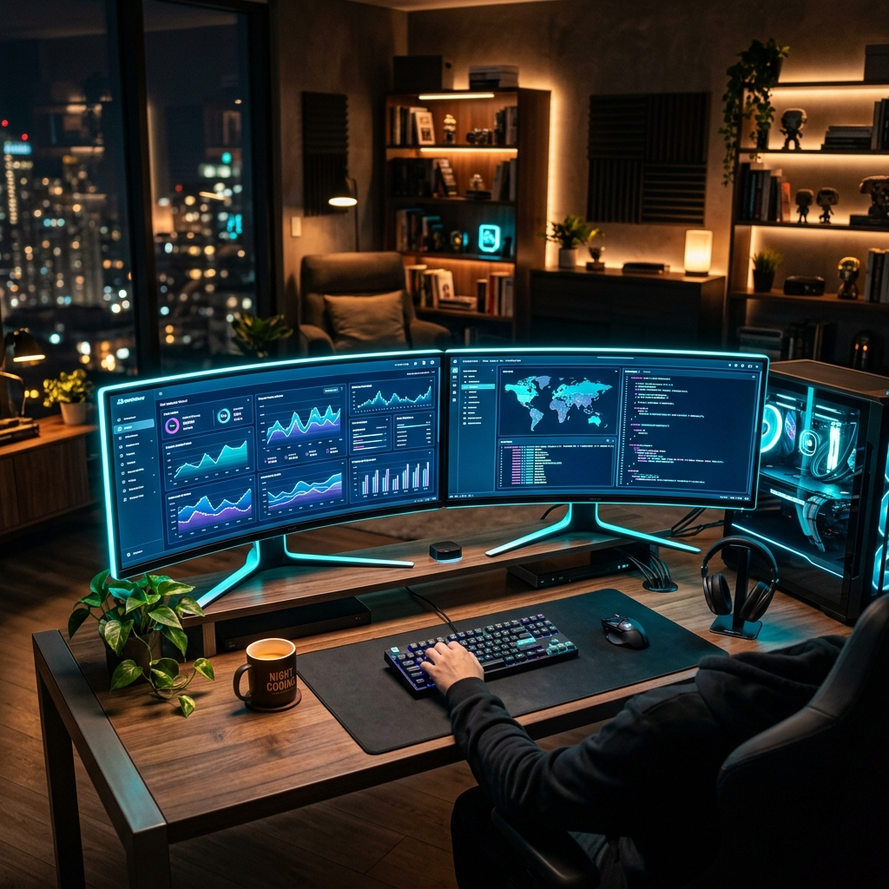
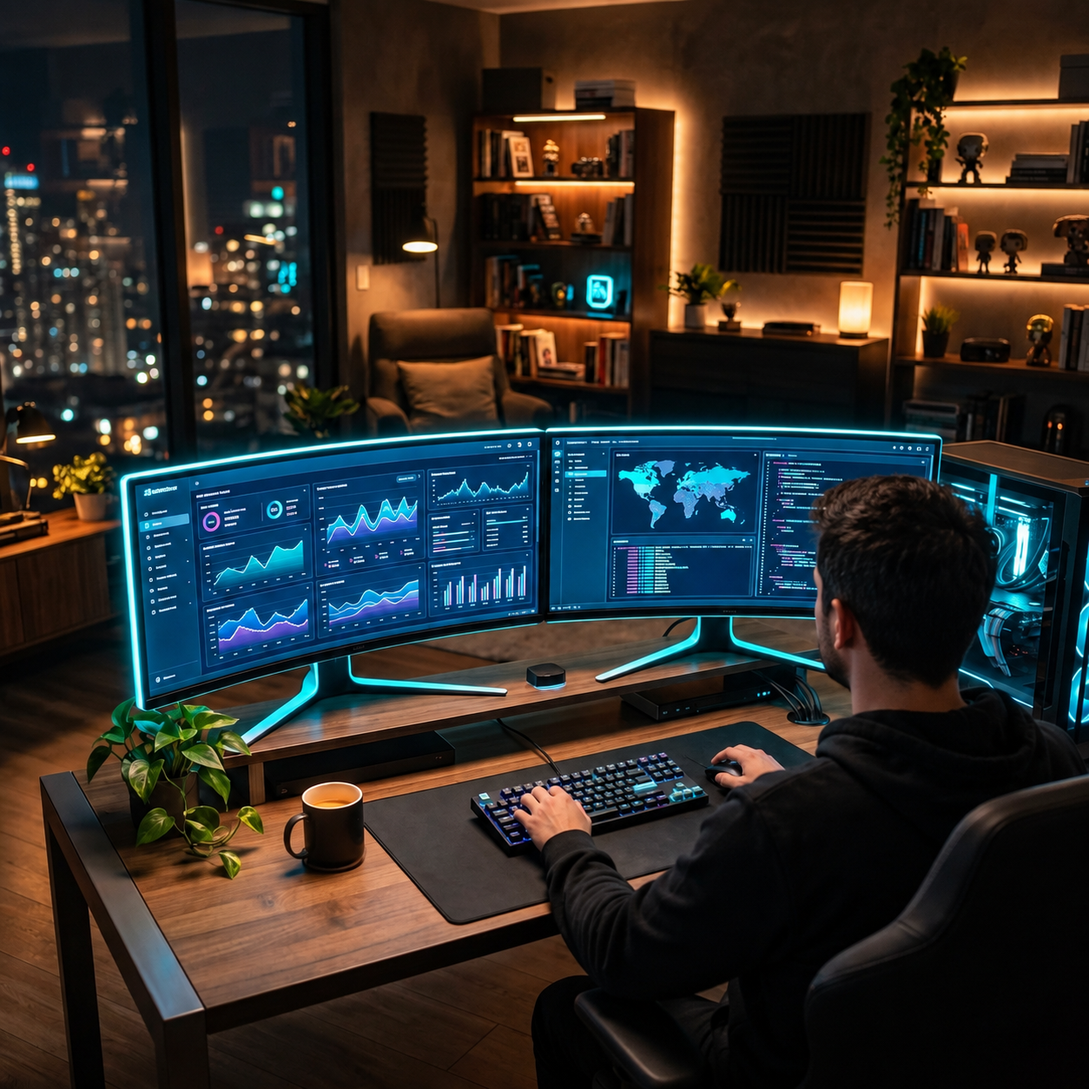
preview: Telegram installation and corrected career artwork

diff --git a/welcome/index.html b/welcome/index.html
@@ -57,7 +57,7 @@
       <div class="ritual-copy"><p class="eyebrow">02 / ВЕРНИТЕСЬ К СЕБЕ</p><h2>Вдох.<br>Выдох.<br><em>Вспомните свою мечту.</em></h2><p>В режиме манифестации образы вашей доски сменяют друг друга, а мягкое движение символа помогает следовать ритму дыхания.</p><p>Гармоничный звук можно включить по желанию. Несколько спокойных минут — только для вас.</p><a class="button light" href="../index.html">Открыть приложение <span aria-hidden="true">↗</span></a></div>
     </div></section>
     <section class="section wrap steps"><p class="eyebrow">03 / НАЧНИТЕ С МАЛЕНЬКОГО</p><h2>Не нужно знать весь путь.<br>Достаточно <em>первого образа.</em></h2><div class="steps-grid"><article><span>01</span><h3>Назовите мечту</h3><p>Что вам хочется привнести в свою жизнь? Начните с одной цели.</p></article><article><span>02</span><h3>Добавьте фотографию</h3><p>Пусть она вызывает то самое чувство: «Да, я хочу именно так».</p></article><article><span>03</span><h3>Возвращайтесь к ней</h3><p>На доске, в дыхательной практике или на плакате рядом с вами.</p></article></div></section>
-    <section id="install" class="install wrap"><div class="install-copy"><p class="eyebrow">ВАША МЕЧТА УЖЕ МОЖЕТ БЫТЬ ЗДЕСЬ</p><h2>Оставьте место<br><em>для своего «хочу».</em></h2><p>Без подписки и рекламы.<br>Только для вдохновения своей мечтой.</p><a class="button primary" href="../index.html">Открыть бесплатно <span aria-hidden="true">↗</span></a><span class="install-note">Работает в браузере. Можно установить на устройство.</span></div><div class="install-guide"><h3>Всегда под рукой</h3><p>Откройте приложение кнопкой «Открыть бесплатно», затем добавьте его на устройство:</p><details open><summary>Android <span aria-hidden="true">+</span></summary><p>В Chrome откройте меню ⋮ → «Добавить на главный экран» → «Установить». Название команды может немного отличаться.</p></details><details><summary>iPhone / iPad <span aria-hidden="true">+</span></summary><p>В Safari откройте меню «Поделиться» → «На экран “Домой”». Если есть переключатель «Открывать как веб-приложение», включите его и нажмите «Добавить».</p></details><details><summary>Компьютер <span aria-hidden="true">+</span></summary><p>Откройте приложение в Chrome или Edge и нажмите значок установки в адресной строке, если он доступен. Можно пользоваться и в обычной вкладке.</p></details></div></section>
+    <section id="install" class="install wrap"><div class="install-copy"><p class="eyebrow">ВАША МЕЧТА УЖЕ МОЖЕТ БЫТЬ ЗДЕСЬ</p><h2>Оставьте место<br><em>для своего «хочу».</em></h2><p>Без подписки и рекламы.<br>Только для вдохновения своей мечтой.</p><a class="button primary" href="../index.html">Открыть бесплатно <span aria-hidden="true">↗</span></a><span class="install-note">Работает в браузере. Можно установить на устройство.</span></div><div class="install-guide"><h3>Всегда под рукой</h3><p class="telegram-install-help"><strong>Открыли ссылку в Telegram?</strong> Если ссылка открылась внутри Telegram, в меню страницы ⋮ или ⋯ выберите «Открыть в браузере»: на Android — Chrome, на iPhone — Safari. Во встроенном браузере кнопки установки может не быть. Затем нажмите «Открыть бесплатно» и следуйте инструкции ниже.</p><p>Откройте приложение кнопкой «Открыть бесплатно», затем добавьте его на устройство:</p><details open><summary>Android <span aria-hidden="true">+</span></summary><p>В Chrome откройте меню ⋮ → «Добавить на главный экран» → «Установить». Название команды может немного отличаться.</p></details><details><summary>iPhone / iPad <span aria-hidden="true">+</span></summary><p>В Safari откройте меню «Поделиться» → «На экран “Домой”». Если есть переключатель «Открывать как веб-приложение», включите его и нажмите «Добавить».</p></details><details><summary>Компьютер <span aria-hidden="true">+</span></summary><p>Откройте приложение в Chrome или Edge и нажмите значок установки в адресной строке, если он доступен. Можно пользоваться и в обычной вкладке.</p></details></div></section>
     <section class="faq wrap section"><div><p class="eyebrow">ЕЩЁ ПАРА ВОПРОСОВ</p><h2>Всё просто.<br><em>И по-честному.</em></h2></div><div><details><summary>Это действительно бесплатно?<span aria-hidden="true">+</span></summary><p>Да. Создание доски, поиск фотографий, дыхательная практика и экспорт PNG доступны без подписки и рекламы.</p></details><details><summary>Нужно создавать аккаунт?<span aria-hidden="true">+</span></summary><p>Нет. Открывайте приложение и начинайте. Доска сохраняется в браузере на вашем устройстве. Чтобы перенести её или сохранить отдельную копию, используйте резервный экспорт в приложении.</p></details><details><summary>Можно пользоваться без интернета?<span aria-hidden="true">+</span></summary><p>После первой загрузки основные функции доступны офлайн. Для поиска и загрузки новых сетевых фотографий нужен интернет.</p></details><details><summary>Можно напечатать свою доску?<span aria-hidden="true">+</span></summary><p>Да, экспортируйте PNG в формате А2 с плотностью 150 или 300 dpi. Для 300 dpi удобнее компьютер. Качество фотографий зависит от исходных изображений.</p></details></div></section>
   </main>
   <footer class="wrap footer"><a class="brand" href="#"><span class="brand-star" aria-hidden="true">✳</span><span>Kseles<span class="brand-sub">DreamBoards</span></span></a><p>Только вы. И то, о чём мечтаете.</p><a href="../index.html">К моей доске ↗</a></footer>

diff --git a/release.test.js b/release.test.js
@@ -31,8 +31,8 @@ const IMPORT_JS = fs.readFileSync(path.join(__dirname, 'import.js'), 'utf8');
 
 const PROD_SCOPE = 'https://example.com/dreamboard/';
 const PREVIEW_SCOPE = 'https://example.com/dreamboard-v14-preview/';
-const PROD_CACHE = 'dreamboard-dreamboard-v30';
-const PREVIEW_CACHE = 'dreamboard-dreamboard-v14-preview-v30';
+const PROD_CACHE = 'dreamboard-dreamboard-v31';
+const PREVIEW_CACHE = 'dreamboard-dreamboard-v14-preview-v31';
 const LEGACY_V13 = 'dreamboard-v13';
 const OLD_PROD_SCOPED = 'dreamboard-dreamboard-v13';
 const OLD_PREVIEW_SCOPED = 'dreamboard-dreamboard-v14-preview-v13';
@@ -118,15 +118,15 @@ function runActivate(sw) {
 // --- version.txt -----------------------------------------------------------
 
 test('1. version.txt: Stage 7B v15 identifier', () => {
-    assert.ok(/Build: 2026-09-13-v30-custom-domain/.test(VERSION_TXT), 'Build = v15 Stage 7B');
+    assert.ok(/Build: 2026-09-13-v31-telegram-install/.test(VERSION_TXT), 'Build = v15 Stage 7B');
     assert.ok(!/2026-06-06-v13/.test(VERSION_TXT), 'нет старого v13 build identifier');
 });
 
 test('2. version.txt: Expected cache описывает scoped runtime-name, не один глобальный', () => {
     assert.ok(/Expected cache: runtime scoped cache name/.test(VERSION_TXT), 'описан runtime scoped cache');
-    assert.ok(/dreamboard-<scope>-v30/.test(VERSION_TXT), 'формула dreamboard-<scope>-v30');
-    assert.ok(/dreamboard-dreamboard-v30/.test(VERSION_TXT), 'пример production имени');
-    assert.ok(/dreamboard-dreamboard-v14-preview-v30/.test(VERSION_TXT), 'пример preview имени');
+    assert.ok(/dreamboard-<scope>-v31/.test(VERSION_TXT), 'формула dreamboard-<scope>-v31');
+    assert.ok(/dreamboard-dreamboard-v31/.test(VERSION_TXT), 'пример production имени');
+    assert.ok(/dreamboard-dreamboard-v14-preview-v31/.test(VERSION_TXT), 'пример preview имени');
     assert.ok(!/Expected cache: dreamboard-v14\s*$/.test(VERSION_TXT), 'не обещает один глобальный cache name');
 });
 
@@ -156,7 +156,7 @@ test('5. один source-файл вычисляет разные cache names (p
     assert.notStrictEqual(prod.cacheName, prev.cacheName, 'cache names изолированы по scope');
     assert.ok(prod.cacheName.startsWith('dreamboard-') && prev.cacheName.startsWith('dreamboard-'),
         'оба в namespace DreamBoard');
-    assert.ok(prod.cacheName.endsWith('-v30') && prev.cacheName.endsWith('-v30'), 'оба версии v15');
+    assert.ok(prod.cacheName.endsWith('-v31') && prev.cacheName.endsWith('-v31'), 'оба версии v15');
 });
 
 // --- install ---------------------------------------------------------------
@@ -249,7 +249,7 @@ test('13. контракты не изменены: schemaVersion 2, backup form
 });
 
 test('14. SW: scope-изоляция реализована (SCOPE_NAME, SCOPE_OLD_RE, IS_PRODUCTION_SCOPE)', () => {
-    assert.ok(/var CACHE_NAME = 'dreamboard-' \+ SCOPE_NAME \+ '-v30';/.test(SW_JS),
+    assert.ok(/var CACHE_NAME = 'dreamboard-' \+ SCOPE_NAME \+ '-v31';/.test(SW_JS),
         'CACHE_NAME строится из scope во время исполнения');
     assert.ok(/SCOPE_OLD_RE/.test(SW_JS) && /IS_PRODUCTION_SCOPE/.test(SW_JS) && /LEGACY_CACHE_RE/.test(SW_JS),
         'механика activate-фильтра на месте');
@@ -258,10 +258,10 @@ test('14. SW: scope-изоляция реализована (SCOPE_NAME, SCOPE_O
 });
 
 test('custom domain root scope installs and retains photo cache on upgrade', async () => {
-    const sw = loadSW('https://dreamboard.kseles.ru/', ['dreamboard-root-v29', 'dreamboard-root-photos-v1']);
+    const sw = loadSW('https://dreamboard.kseles.ru/', ['dreamboard-root-v30', 'dreamboard-root-photos-v1']);
     await runInstall(sw);
     await runActivate(sw);
-    assert.ok(sw.opened.includes('dreamboard-root-v30'));
-    assert.ok(sw.deleted.includes('dreamboard-root-v29'));
+    assert.ok(sw.opened.includes('dreamboard-root-v31'));
+    assert.ok(sw.deleted.includes('dreamboard-root-v30'));
     assert.ok(!sw.deleted.includes('dreamboard-root-photos-v1'));
 });

diff --git a/welcome/banner/index.html b/welcome/banner/index.html
@@ -18,15 +18,15 @@
     .card{position:absolute;padding:1.25cqw;background:#fffdfa;box-shadow:0 1.7cqw 4cqw #26382e1c;}
     .card img{display:block;width:100%;height:82%;object-fit:cover}.card p{font-size:1.45cqw;letter-spacing:.08cqw;margin:1.5cqw .5cqw .4cqw;font-weight:600}
     .ocean{left:10%;top:47%;width:48%;height:31%;transform:rotate(-7deg);z-index:2}
-    .work{right:8%;top:52%;width:34%;height:27%;transform:rotate(8deg);z-index:3}.work p{text-align:right}
+    .work{right:8%;top:52%;width:34%;height:27%;transform:rotate(8deg);z-index:3}.work p{text-align:right}.work img{object-position:right center}
     .note{position:absolute;left:46%;top:70.5%;z-index:4;padding:2.3cqw 3.4cqw;background:#e2e8d9;transform:rotate(-3deg);box-shadow:0 1cqw 3cqw #26382e13;font-family:Georgia,serif;font-style:italic;font-size:2.8cqw;line-height:1.12}
     .spark{position:absolute;right:7%;top:42%;color:#a6482e;font-size:9cqw;font-weight:400;transform:rotate(12deg)}
-    .cta{position:absolute;left:7.4%;right:7.4%;bottom:7%;height:7.5%;background:#26382e;color:#fffdf8;border-radius:.8cqw;display:flex;align-items:center;justify-content:space-between;padding:0 3.5cqw;font-size:3cqw;font-weight:600}
-    .cta span{font-size:4.5cqw;font-weight:400}.promise{position:absolute;bottom:2.5%;left:0;right:0;text-align:center;font-size:1.95cqw;color:#606b61;letter-spacing:.025cqw}
+    .cta{position:absolute;left:7.4%;right:7.4%;bottom:10%;height:7.5%;background:#26382e;color:#fffdf8;border-radius:.8cqw;display:flex;align-items:center;justify-content:space-between;padding:0 3.5cqw;font-size:3cqw;font-weight:600}
+    .cta span{font-size:4.5cqw;font-weight:400}.address{position:absolute;bottom:5.4%;left:0;right:0;text-align:center;font-size:3.1cqw;font-weight:600;letter-spacing:.04cqw}.promise{position:absolute;bottom:2.2%;left:0;right:0;text-align:center;font-size:1.95cqw;color:#606b61;letter-spacing:.025cqw}
   </style>
 </head>
 <body>
-  <a class="banner" href="../?utm_source=personal" aria-label="Kseles-DreamBoards. Создать доску мечты — перейти на страницу приложения">
+  <a class="banner" href="https://dreamboard.kseles.ru/welcome/?utm_source=personal" aria-label="Kseles-DreamBoards. Создать доску мечты — перейти на страницу приложения">
     <div class="brand"><span class="star" aria-hidden="true">✳</span><div>Kseles<small>DREAMBOARDS</small></div></div>
     <div class="eyebrow">ВАША ДОСКА МЕЧТЫ</div>
     <h1>Дайте мечте<br><em>своё место.</em></h1>
@@ -37,6 +37,7 @@
     <div class="note">Мечтать.<br>Создавать.<br>Быть собой.</div>
     <div class="spark" aria-hidden="true">✳</div>
     <div class="cta">Создать доску мечты<span aria-hidden="true">↗</span></div>
+    <div class="address">dreamboard.kseles.ru</div>
     <div class="promise">Бесплатно · Без рекламы · Без регистрации</div>
   </a>
 </body>

diff --git a/about/index.html b/about/index.html
@@ -21,6 +21,12 @@
       <p>Скачивайте резервную копию для переноса и восстановления. Очистка данных браузера может удалить доски. Перед установкой приложения сохраните копию: если установленная версия откроется с пустой доской, восстановите её из файла.</p>
       <p>Ваши фотографии и тексты остаются вашими материалами. Подпись Kseles-DreamBoards на PNG обозначает приложение, в котором подготовлен плакат. У сетевых фотографий есть свои авторы; ссылки на них и источник показаны в приложении. Условия использования фотографий доступны на <a href="https://www.pexels.com/license/">сайте Pexels</a>.</p>
     </section>
+    <section class="section">
+      <h2>Как установить приложение</h2>
+      <p>Если ссылка открылась внутри Telegram, в меню страницы ⋮ или ⋯ выберите «Открыть в браузере»: на Android — Chrome, на iPhone — Safari. Во встроенном браузере кнопки установки может не быть.</p>
+      <p>Откройте DreamBoard в Chrome: меню ⋮ → «Добавить на главный экран» → «Установить». На iPhone в Safari: «Поделиться» → «На экран “Домой”».</p>
+      <p><a href="../welcome/#install">Подробная инструкция установки</a></p>
+    </section>
     <section>
       <h2>Простая статистика</h2>
       <p>Чтобы понимать, пользуются ли проектом, мы считаем открытия страниц, переходы в приложение, обращения к инструкции установки и действия с PNG. Это количество событий, а не точное число людей, установок или сохранённых файлов.</p>

diff --git a/index.html b/index.html
@@ -225,6 +225,8 @@
                 </div>
                 <details class="project-info">
                     <summary>Информация о приложении</summary>
+                    <p>Если ссылка открылась внутри Telegram, в меню страницы ⋮ или ⋯ выберите «Открыть в браузере»: на Android — Chrome, на iPhone — Safari. Во встроенном браузере кнопки установки может не быть.</p>
+                    <p>В Chrome: меню ⋮ → «Добавить на главный экран» → «Установить». <a href="welcome/#install">Инструкция для других устройств</a>.</p>
                     <p><a href="about/">Об авторе и проекте</a></p>
                     <p><a href="mailto:leksnov@gmail.com">Обратная связь</a></p>
                     <p><a href="about/#statistics-enabled">Настройка статистики</a></p>

diff --git a/performance-lite.test.js b/performance-lite.test.js
@@ -389,9 +389,9 @@ test('28. script order storage→backup→import→performance→trash→app и 
     assert.ok(fs.existsSync(path.join(__dirname, 'trash.js')));
 });
 
-test('29. CACHE_NAME строится runtime по scope (dreamboard-<scope>-v30)', () => {
-    assert.ok(/var CACHE_NAME = 'dreamboard-' \+ SCOPE_NAME \+ '-v30';/.test(SW_JS),
-        'CACHE_NAME изолирован по scope: dreamboard-<scope>-v30');
+test('29. CACHE_NAME строится runtime по scope (dreamboard-<scope>-v31)', () => {
+    assert.ok(/var CACHE_NAME = 'dreamboard-' \+ SCOPE_NAME \+ '-v31';/.test(SW_JS),
+        'CACHE_NAME изолирован по scope: dreamboard-<scope>-v31');
     assert.ok(!/const CACHE_NAME = 'dreamboard-v13'/.test(SW_JS), 'статический dreamboard-v13 CACHE_NAME отсутствует');
     assert.ok(!/const CACHE_NAME = 'dreamboard-v14'/.test(SW_JS), 'статический dreamboard-v14 CACHE_NAME отсутствует');
 });

diff --git a/backup-export.test.js b/backup-export.test.js
@@ -548,10 +548,10 @@ test('33. backup.js подключён до app.js', () => {
     assert.ok(iStorage < iBackup && iBackup < iApp, 'порядок: storage.js → backup.js → app.js');
 });
 
-test('34. backup.js присутствует в PRECACHE, CACHE_NAME scoped (dreamboard-<scope>-v30)', () => {
+test('34. backup.js присутствует в PRECACHE, CACHE_NAME scoped (dreamboard-<scope>-v31)', () => {
     const sw = fs.readFileSync(path.join(__dirname, 'service-worker.js'), 'utf8');
     assert.ok(sw.includes("'./backup.js'"), 'backup.js в PRECACHE_URLS');
-    assert.ok(sw.includes("var CACHE_NAME = 'dreamboard-' + SCOPE_NAME + '-v30';"), 'CACHE_NAME scoped по scope');
+    assert.ok(sw.includes("var CACHE_NAME = 'dreamboard-' + SCOPE_NAME + '-v31';"), 'CACHE_NAME scoped по scope');
 });
 
 // --- дополнительные проверки (раздел 9 ТЗ) ------------------------------------

diff --git a/welcome/landing.css b/welcome/landing.css
@@ -11,3 +11,5 @@
 @media(max-width:360px){.hero-art{height:510px}}
 @media(prefers-reduced-motion:reduce){:root{scroll-behavior:auto}*,*::before,*::after{animation:none!important;transition:none!important}.fish-wrap{transform:none}}
 .about-page main { max-width: 840px; line-height: 1.65; } .about-page p { margin: 1em 0; } .about-page h1 { margin: .5em 0; } .about-page h2 { margin-bottom: .5em; } .about-page a { text-decoration: underline; text-underline-offset: 3px; } .about-page input { width: 20px; height: 20px; vertical-align: middle; }
+
+.photo-card.work img { object-position: right center; }

diff --git a/auth.test.js b/auth.test.js
@@ -112,7 +112,7 @@ test('10. Stage 7B resources are all precached under scoped v15 cache', () => {
         assert.ok(SW.includes("'./" + file + "'"), file + ' is precached');
         assert.ok(fs.existsSync(path.join(__dirname, file)), file + ' exists');
     }
-    assert.match(SW, /CACHE_NAME = 'dreamboard-' \+ SCOPE_NAME \+ '-v30'/);
+    assert.match(SW, /CACHE_NAME = 'dreamboard-' \+ SCOPE_NAME \+ '-v31'/);
 });
 
 test('11. Turnstile loads only through the fixed official endpoint and writes token via callback', async () => {

diff --git a/service-worker.js b/service-worker.js
@@ -20,7 +20,7 @@ var SCOPE_NAME = (function () {
     return normalizeScopeName(location.pathname.replace(/[^/]*$/, ''));
 })();
 
-var CACHE_NAME = 'dreamboard-' + SCOPE_NAME + '-v30';
+var CACHE_NAME = 'dreamboard-' + SCOPE_NAME + '-v31';
 // Photo data survives application upgrades; production and preview stay isolated.
 var PHOTO_CACHE_NAME = 'dreamboard-' + SCOPE_NAME + '-photos-v1';
 

diff --git a/docs/app/USER_GUIDE.md b/docs/app/USER_GUIDE.md
@@ -39,7 +39,7 @@ PNG — изображение для просмотра, печати или о
 
 ## Установка и офлайн
 
-Инструкции установки веб-приложения находятся на лендинге. APK отложен. После успешной загрузки и подготовки кэша основные функции доступны без сети; внешний поиск требует подключения. Перед использованием офлайн проверьте открытие своей доски без интернета.
+Инструкции установки веб-приложения находятся на лендинге. Если ссылка открылась внутри Telegram, в меню страницы ⋮ или ⋯ выберите «Открыть в браузере»: на Android — Chrome, на iPhone — Safari. Во встроенном браузере кнопки установки может не быть. APK отложен. После успешной загрузки и подготовки кэша основные функции доступны без сети; внешний поиск требует подключения. Перед использованием офлайн проверьте открытие своей доски без интернета.
 
 На TCL30 / Android / Chrome пользователь подтвердил скачивание и восстановление JSON, установку приложения из Chrome, наличие иконки, запуск с иконки и работу без интернета.
 

diff --git a/CHANGELOG.md b/CHANGELOG.md
@@ -31,3 +31,9 @@
 ## 2026-09-13 — v30, собственный домен
 
 Подготовлен dreamboard.kseles.ru на GitHub Pages: распознавание production в статистике, точный CORS allowlist для нового origin, социальная картинка на новом домене и проверка корневого scope PWA. Инструкция: docs/app/CUSTOM_DOMAIN.md.
+
+## 2026-09-13 — v31, установка из Telegram и баннер
+
+Баннер 4:5 показывает dreamboard.kseles.ru и ведёт на новый лендинг. В инструкции лендинга, информации приложения и странице проекта объяснено, как открыть ссылку из Telegram в Chrome/Safari перед установкой. APK остаётся отложенным.
+
+Исправлена встроенная фотография рабочего места: человек с полностью видимой головой и естественной позой. Обновлён PNG-баннер с этим изображением.
